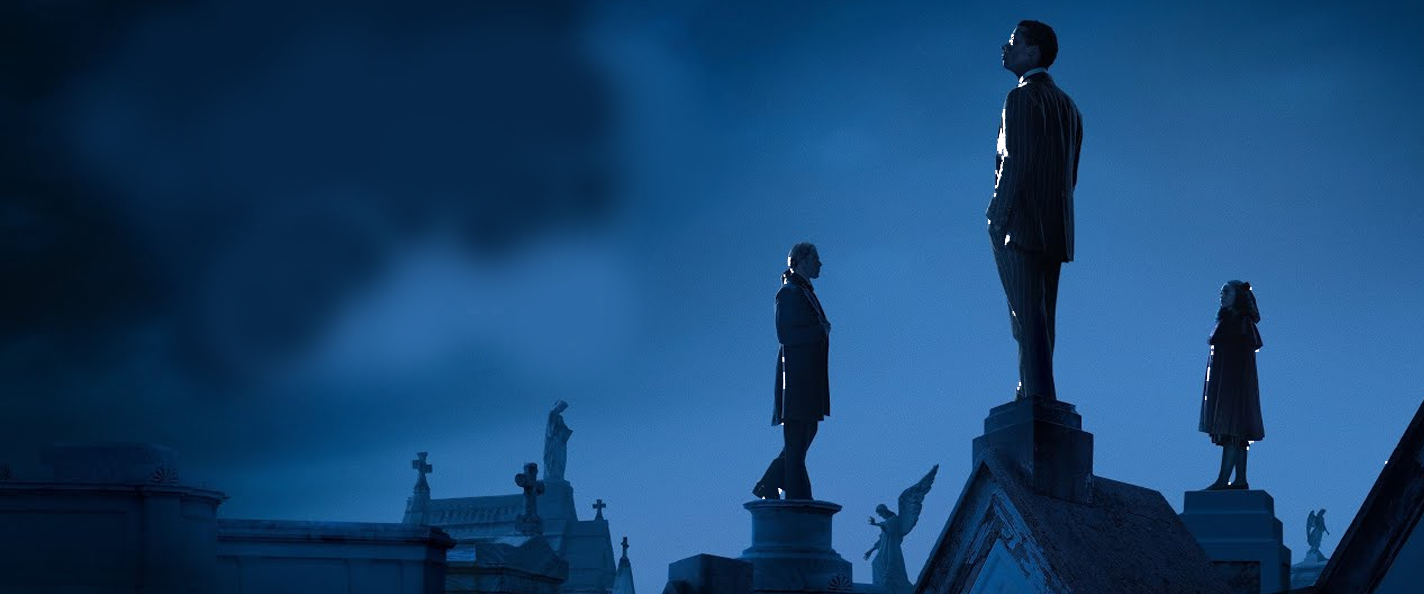
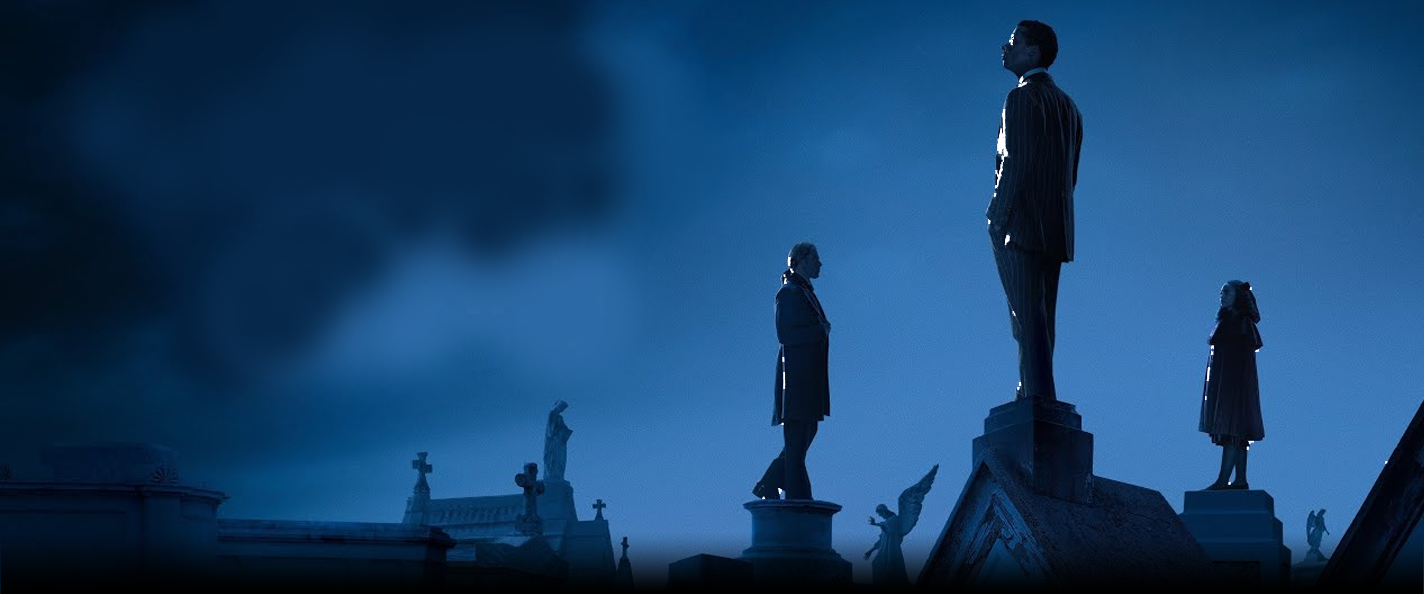
cores

Changed region(s): [[0.0, 0.9091, 1.0, 1.0]]

diff --git a/style/responsive.css b/style/responsive.css
@@ -2,9 +2,9 @@
 @media screen and (max-width: 500px){
 
     header .logo{
-        margin-right: 180px;
-        margin-top: 10px;
-        font-size: 25px;
+        margin-right: 130px;
+        margin-top: 15px;
+        font-size: 23px;
         margin-bottom: 5px;
     }
 
@@ -37,9 +37,9 @@
     }
 
     .banner-principal .titulo{
-        margin-top: 300px;
+        margin-top: 350px;
         font-size: 15px;
-        margin-right: 40px;
+        margin-right: 60px;
         text-align: center;
     }   
     

diff --git a/style/main.css b/style/main.css
@@ -1,5 +1,5 @@
 :root{
-    --azul:rgba(17, 17, 123, 0.84);
+    --azul:#1e3c5c;
     --preto: #000208;
 }
 
@@ -95,7 +95,7 @@ header .logo{
     font-size: 16px;
     background: linear-gradient(rgba(0,0,0,.50),rgba(0,0,0,.50)100%), url('../img/banner.png');
     
-    height:500px;
+    height:550px;
     background-size:contain;
     background-repeat: no-repeat;
     

diff --git a/style/livros.css b/style/livros.css
@@ -1,5 +1,5 @@
 :root{
-    --azul:rgba(17, 17, 123, 0.84);
+    --azul:#1e3c5c;
     --preto: #000208;
 }
 
